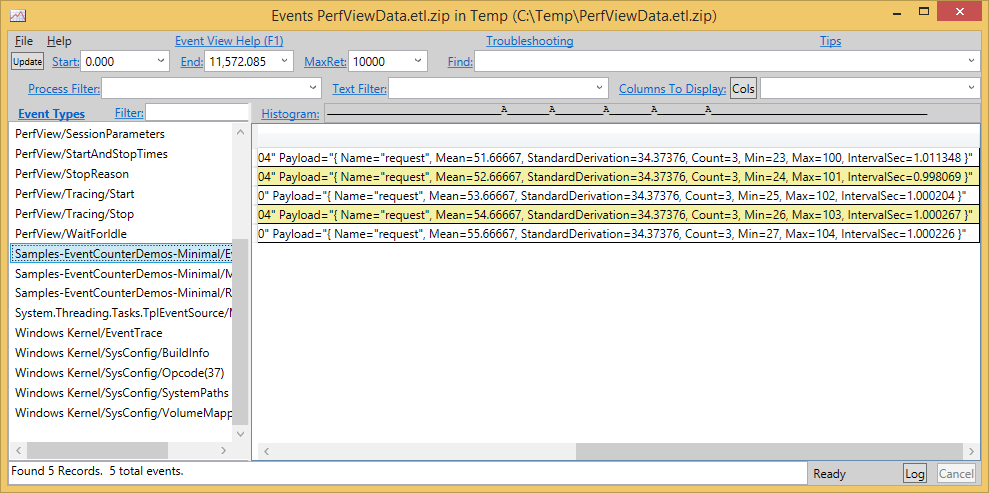
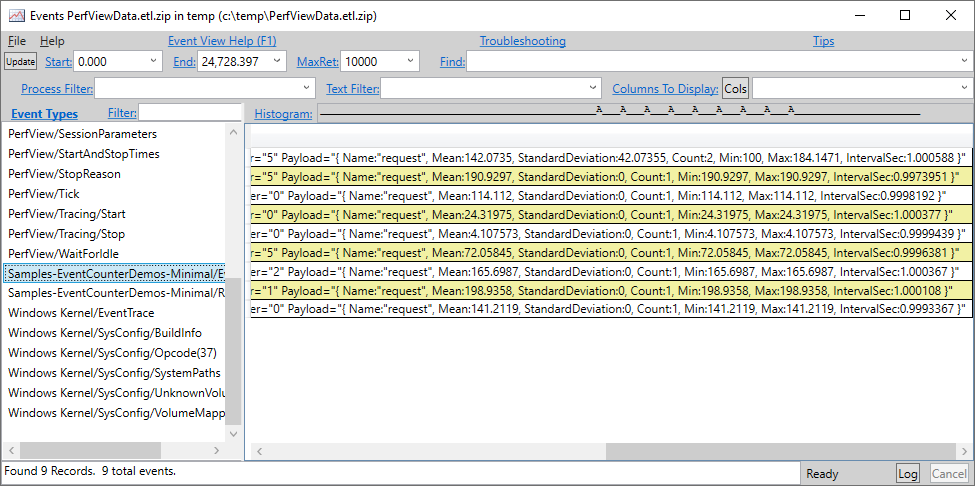
Update EventCounter blog with visualization

diff --git a/src/System.Diagnostics.Tracing/documentation/EventCounterTutorial.md b/src/System.Diagnostics.Tracing/documentation/EventCounterTutorial.md
@@ -61,10 +61,10 @@ As usual, turn on PerfView, and then run the sample code, we will have something
 Now let's drill into what the data captured meant - when I copied from PerfView, it looks like this
 
 ```
-Payload="{ Name="request", Mean=51.66667, StandardDerivation=34.37376, Count=3, Min=23, Max=100, IntervalSec=1.038177 }"
+ThreadID="17,800" ProcessorNumber="5" Payload="{ Name:"request", Mean:142.0735, StandardDeviation:42.07355, Count:2, Min:100, Max:184.1471, IntervalSec:1.000588 }" 
 ```
 
-Now it is obvious that within a sampling period, we have 5 events, and all the other statistics.
+Now it is obvious that within a sampling period, we have 9 events, and all the other statistics.
 
 Notice that, this command also log the events, so we will get both the events and the counter statistics.
 
@@ -77,3 +77,11 @@ PerfView /onlyProviders=*Samples-EventCounterDemos-Minimal:*:Critical:EventCount
 ```
 
 Notice the `Critical` keyword in the command line, that is used to filter out the other events with lower priorities.
+
+In the next relaese of PerfView (> 2.0.26), we can visualize the counters using PerfView. To do so, you can right click on the event like this and choose the show event counter graph item:
+
+<img src="PerfViewCapture_Menu.png" alt="Show EventCounter graph menu item" title="Show EventCounter graph menu item" />
+
+Then it will show you a line graph showing the mean of the data like this. If you have multiple event counters, it can show multiple plots. You can also filter out a particular subset of counters using the filter text option:
+
+<img src="PerfViewCapture_Plot.png" alt=" EventCounter graph" title="EventCounter graph" />
